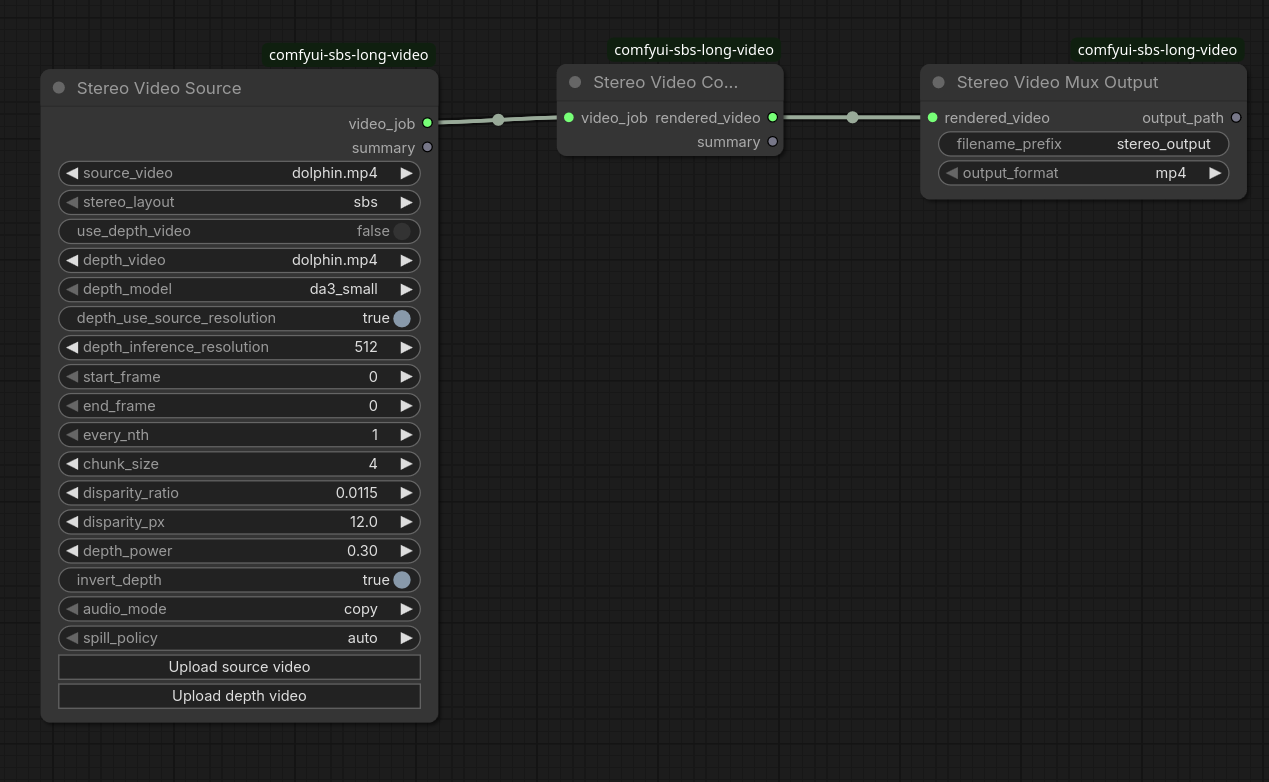
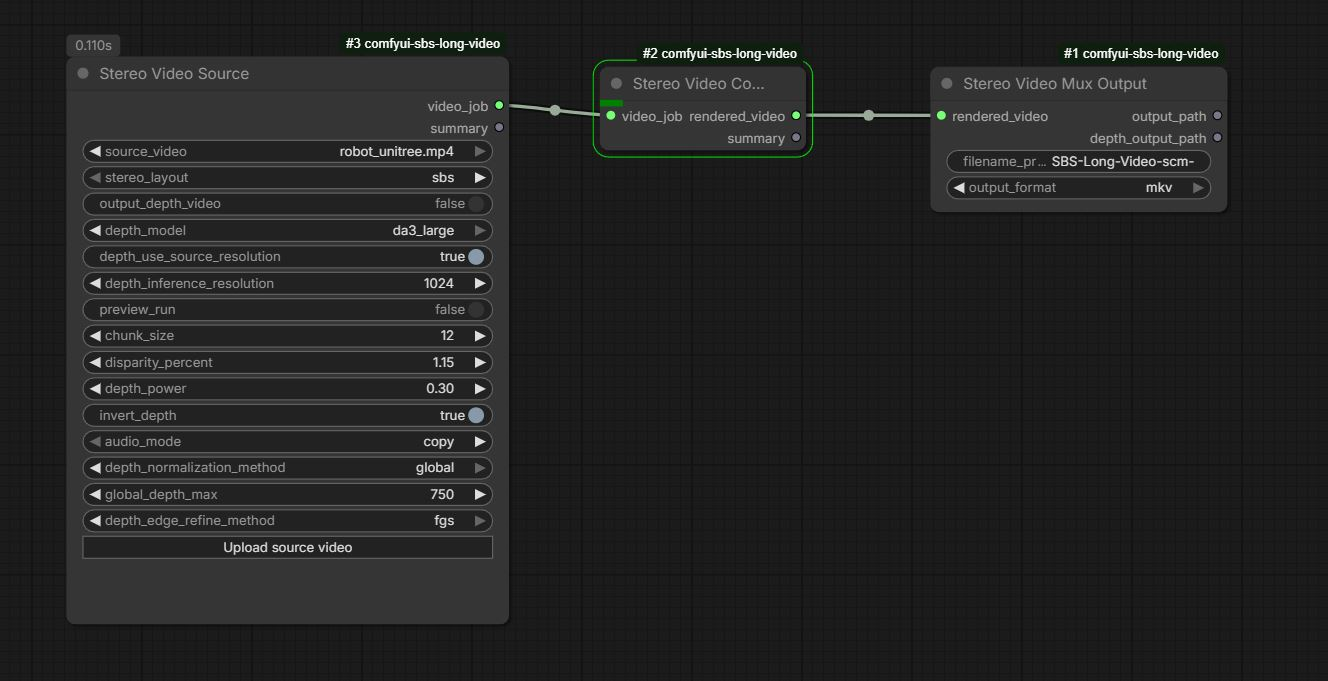
Cleanup README and screenshots

Changed region(s): [[0.0307, 0.0308, 0.9835, 0.9251]]

diff --git a/README.md b/README.md
@@ -1,36 +1,28 @@
 # ComfyUI Stereo Long Video
 
-`ComfyUI Stereo Long Video` is a video-first custom node package for converting flat video into 3D stereoscopic output inside ComfyUI. Using the Depth Anything 3 AI model for depth estimation on a monocular input video. Resulting in a SBS or top/bottom stereo video that can be used on 3D displays. 
+`ComfyUI Stereo Long Video` is a video-first custom node package for converting flat (2D) video into 3D stereoscopic output inside ComfyUI. Using the Depth Anything 3 AI model for depth estimation on a monocular (flat) input video. Resulting in a SBS or top/bottom stereo video that can be used on 3D displays. 
 
-Instead of pushing long clips through image-batch workflows, this project treats video as a stream:
+Instead of loading the entire video and pushing it through image-batch workflows, this project treats video as a stream:
 
-- `ffmpeg` decodes frames in chunks
-- depth is estimated once per chunk with a long-lived runner
-- stereo reprojection happens on the GPU with `torch.grid_sample`
-- frames are streamed into an encoder instead of being kept in RAM
-- source audio can be muxed back into the final file
+- `ffmpeg` is used to break apart the video into chunks
+- Depth is estimated per chunk
+- Each frame is converted to 3D using the depth (reprojected)
+- Frames are streamed into a temporary file
+- Once all frames are complete, the audio is added back to the final 3D video
 
 ![screenshot](screenshot/nodes.png)
 
-## Purpose
-
-This project is meant for long-form stereo video generation in ComfyUI, especially where clip length, VRAM, and encode time make image-oriented nodes impractical.
-
-The repo currently ships three nodes:
-
-- `StereoVideoSource`
-- `StereoVideoConvert`
-- `StereoVideoMuxOutput`
-
 ## Why This Exists
 
-Most 2D-to-3D video workflows either process video as large image batches or rely on video-native depth models that can require substantial VRAM, especially at higher resolutions.
+Most 2D-to-3D video workflows either process video as large image batches or rely on video-native depth models that can require substantial system RAM or VRAM, especially at higher resolutions.
 
 This project targets a different use case: a memory-efficient SBS video converter for ComfyUI that can still run on low VRAM and RAM machines. It decodes video in chunks, runs per-frame depth estimation with Depth Anything, renders stereo on the GPU, and streams frames into the encoder instead of keeping the whole clip in memory.
 
 That design involves a tradeoff. Video-oriented depth models can deliver stronger temporal consistency, but they often demand more VRAM for higher-resolution inputs. This project instead prioritizes practical long-video conversion on modest hardware while still producing useful depth estimation and stereo output for higher-resolution material.
 
-A central goal was to implement GPU-based image processing for the heavy lifting so that conversion runs many times faster than CPU-bound alternatives. In practice, the pipeline works like this: **FFmpeg** decodes the source video in configurable chunks and feeds raw frames into the pipeline. Each chunk is moved to the GPU once; **Depth Anything** runs depth inference there. The **stereo reprojection** step then runs entirely on the GPU: depth is turned into per-pixel disparity, and left/right views are generated with `torch.grid_sample` (bilinear sampling). Hole-filling for disoccluded regions uses GPU `avg_pool2d` iterations. The resulting stereo frames are streamed straight into an **ffmpeg** encoder process via a pipe, so only one chunk lives in memory at a time. By keeping decode → depth → render → encode in a single streaming loop and doing all per-frame image work on the GPU, the converter avoids CPU-bound warping.
+To improve this, there are options for higher fidelity 3D processing, including Fast Global Smoothing to improve edge processing (increases processing time roughly 50%) and global depth normalization (no increase in processing time, but has a manual configuration).  These options improve quality to nearly the level of streaming-oriented techniques, without the significant hardware overhead.
+
+Conversely, options exist to dramatically improve generation time.  Edge refinement can be turned off or set to "simple" and inference resolution can be reduced to 12, allowing for both faster processing and reduced VRAM usage.  Finally, a "preview_mode" option allows for a storyboard mode where every 30th frame is rendered (roughly one new frame per second).  This allows you to convert the full video very quickly for use as testing the 3d mode. (Take the duration of the preview times 30 to get an estimate of the full processing time.)
 
 ## Installation
 
@@ -65,6 +57,16 @@ python -m pip install git+https://github.com/ByteDance-Seed/Depth-Anything-3.git
 - otherwise the plugin falls back to `transformers`-compatible checkpoints
 
 After installing dependencies, restart ComfyUI.
+
+## Nodes
+
+Since this processing is different than any other ComfyUI plugin, this repo currently ships three custom nodes:
+
+- `StereoVideoSource`
+- `StereoVideoConvert`
+- `StereoVideoMuxOutput`
+
+Due to the batching nature, these are incompatable with other ComfyUI nodes (such as the Video Helper Suite)
 
 ## Workflow
 
@@ -145,5 +147,3 @@ Writes the final deliverable.
 - `filename_prefix`: base name for the export
 - `output_format`: `mp4`, `webm`, or `mkv`
 - returns the final stereo path and, when enabled, the generated depth-video path
-
-
